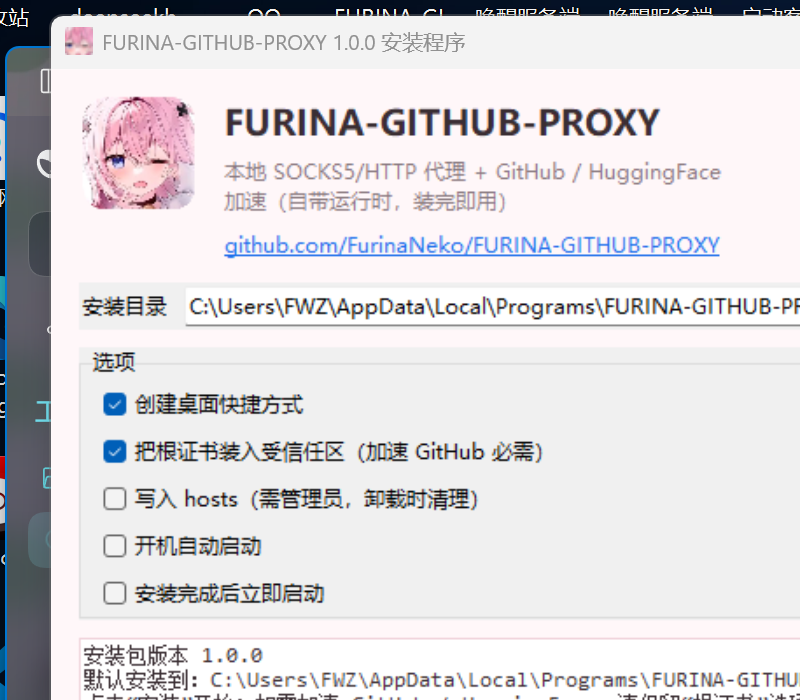
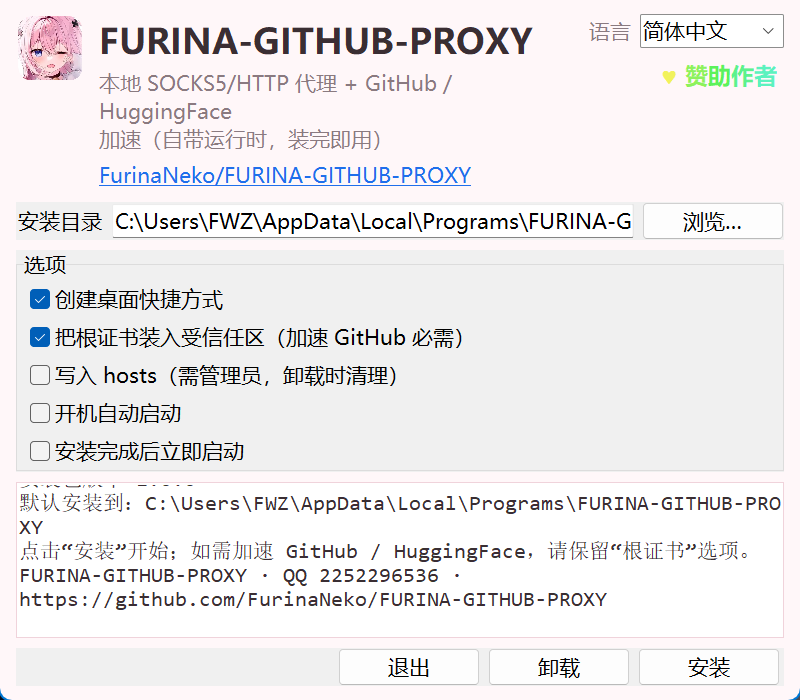
feat: FURINA-GITHUB-PROXY 1.0.0
SOCKS5/HTTP local proxy, rule routing, DoH resolver, trojan/http/socks5 upstreams, local-CA accelerator, Tkinter UI (en/zh-CN/ja/ru), per-user installer.

diff --git a/installer/installer.py b/installer/installer.py
@@ -674,6 +674,7 @@ class SetupGui:
         self.tr = tr
         self.path_var = None
         self.log_text = None
+        self._result = None
         self.build()
 
     # ------------------------------------------------------------------ 构建
@@ -716,11 +717,11 @@ class SetupGui:
         tk.Label(head, text=tr("headline"), bg="#FFF7F9", fg="#3A2E33",
                  font=("Microsoft YaHei UI", 15, "bold")).grid(row=0, column=1, sticky="w")
         tk.Label(head, text=tr("subtitle"), bg="#FFF7F9", fg="#8A7A80",
-                 font=("Microsoft YaHei UI", 9), wraplength=430, justify="left").grid(
+                 font=("Microsoft YaHei UI", 9), wraplength=380, justify="left").grid(
                      row=1, column=1, sticky="w")
+        short_link = (meta.get("project_url") or GITHUB_URL).replace("https://github.com/", "")
         self.link_label = tk.Label(
-            head, text=(meta.get("project_url") or GITHUB_URL).replace("https://", ""),
-            bg="#FFF7F9", fg="#1F6FEB", cursor="hand2",
+            head, text=short_link, bg="#FFF7F9", fg="#1F6FEB", cursor="hand2",
             font=("Microsoft YaHei UI", 9, "underline"))
         self.link_label.grid(row=2, column=1, sticky="w", pady=(2, 0))
         self.link_label.bind(
@@ -735,7 +736,7 @@ class SetupGui:
         self.lang_var = tk.StringVar(
             value=next((x["label"] for x in tr.langs if x["code"] == tr.lang), "English"))
         combo = ttk.Combobox(lang_row, values=[x["label"] for x in tr.langs],
-                             state="readonly", width=10, textvariable=self.lang_var)
+                             state="readonly", width=9, textvariable=self.lang_var)
         combo.pack(side="left")
         combo.bind("<<ComboboxSelected>>", self._on_language)
         make_sponsor_button(
@@ -824,29 +825,47 @@ class SetupGui:
 
     # ------------------------------------------------------------------ 动作
     def task(self, kind: str):
+        """后台线程只写结果，UI 更新一律回到主线程做（Tk 不是线程安全的）。"""
         import threading
 
+        # Tk 变量只能在主线程读，先全部取出来再交给工作线程
+        opts = {
+            "dir": Path(self.path_var.get()),
+            "desktop": bool(self.v_desktop.get()),
+            "ca": bool(self.v_ca.get()),
+            "hosts": bool(self.v_hosts.get()),
+            "autostart": bool(self.v_auto.get()),
+            "start": bool(self.v_start.get()),
+        }
         self.btn_install.config(state="disabled")
         self.btn_uninstall.config(state="disabled")
         self._write("…")
+        self._result = None
 
         def work():
             try:
-                inst = Installer(Path(self.path_var.get()), Log())
+                inst = Installer(opts["dir"], Log())
                 if kind == "install":
                     ok = inst.install(
-                        desktop=self.v_desktop.get(), ca=self.v_ca.get(),
-                        hosts=self.v_hosts.get(), autostart=self.v_auto.get(),
-                        start_now=self.v_start.get(),
+                        desktop=opts["desktop"], ca=opts["ca"], hosts=opts["hosts"],
+                        autostart=opts["autostart"], start_now=opts["start"],
                     )
                 else:
-                    ok = inst.uninstall(remove_ca=self.v_ca.get())
-                self.root.after(0, lambda: self.finish(ok))
+                    ok = inst.uninstall(remove_ca=opts["ca"])
+                self._result = (bool(ok), "")
             except Exception as exc:  # noqa: BLE001
-                message = str(exc)
-                self.root.after(0, lambda: self.finish(False, message))
+                self._result = (False, str(exc))
 
         threading.Thread(target=work, daemon=True).start()
+        self.root.after(200, self._poll_result)
+
+    def _poll_result(self):
+        if self._result is None:
+            self.root.after(200, self._poll_result)
+            return
+        ok, error = self._result
+        self._result = None
+        self.finish(ok, error)
 
     def finish(self, ok: bool, error: str = ""):
         self.btn_install.config(state="normal")
@@ -873,6 +892,8 @@ def main(argv: list[str] | None = None) -> int:
     parser.add_argument("--start", action="store_true")
     parser.add_argument("--uninstall", action="store_true")
     parser.add_argument("--no-popup", action="store_true")
+    parser.add_argument("--gui-selftest", default="", metavar="DIR",
+                        help="无人值守跑一遍图形界面安装流程（用于打包后自检）")
     args = parser.parse_args(argv)
 
     target = Path(args.dir) if args.dir else default_dir()
@@ -903,8 +924,38 @@ def main(argv: list[str] | None = None) -> int:
         "hosts": args.hosts, "autostart": args.autostart, "start": args.start,
         "no_popup": args.no_popup,
     }
+    import tkinter as tk
+
     root = tk.Tk()
-    SetupGui(root, Installer(target, log), defaults, tr)
+    gui = SetupGui(root, Installer(target, log), defaults, tr)
+
+    if args.gui_selftest:
+        import tkinter.ttk as ttk
+
+        report = state_dir() / "selftest.log"
+        lines = [f"frozen={getattr(sys, 'frozen', False)}",
+                 f"ttk.Combobox={hasattr(ttk, 'Combobox')}"]
+
+        def poll(tries=0):
+            text = gui.log_text.get("1.0", "end")
+            done = any(k in text for k in ("finished", "not completed", "—— 完成 ——", "未成功"))
+            if not done and tries < 300:
+                root.after(200, poll, tries + 1)
+                return
+            ok = "finished" in text or "—— 完成 ——" in text
+            lines.append(f"gui_install={'OK' if ok else 'FAILED'}")
+            lines.append("tail=" + " | ".join(text.strip().splitlines()[-3:]))
+            report.write_text("\n".join(lines), encoding="utf-8")
+            root.destroy()
+
+        def start():
+            gui.task("install")
+            poll()
+
+        root.after(400, start)
+        root.mainloop()
+        return 0
+
     root.mainloop()
     return 0
 

diff --git a/tools/shot_setup.py b/tools/shot_setup.py
@@ -1,17 +1,21 @@
 import sys, time
 from pathlib import Path
 sys.path.insert(0, str(Path.cwd()))
+import ctypes
+try:
+    ctypes.windll.shcore.SetProcessDpiAwareness(2)
+except Exception:
+    ctypes.windll.user32.SetProcessDPIAware()
+
 import tkinter as tk
 import installer.installer as inst
 
-root = tk.Tk()
-root.geometry("800x620+60+60")
+root = tk.Tk(); root.geometry("800x700+40+40")
 tr = inst.Tr("zh-CN")
 gui = inst.SetupGui(root, inst.Installer(Path("dist"), inst.Log()), {
     "dir": r"C:\Users\FWZ\AppData\Local\Programs\FURINA-GITHUB-PROXY",
     "desktop": True, "ca": True, "hosts": False, "autostart": False,
-    "start": False, "no_popup": True,
-}, tr)
+    "start": False, "no_popup": True}, tr)
 
 def shot():
     from PIL import ImageGrab
@@ -20,6 +24,4 @@ def shot():
     ImageGrab.grab(bbox=(x, y, x + root.winfo_width(), y + root.winfo_height())).save("docs/setup-zh.png")
     root.destroy()
 
-root.after(1000, shot)
-root.mainloop()
-print("ok")
+root.after(1100, shot); root.mainloop(); print("ok")
